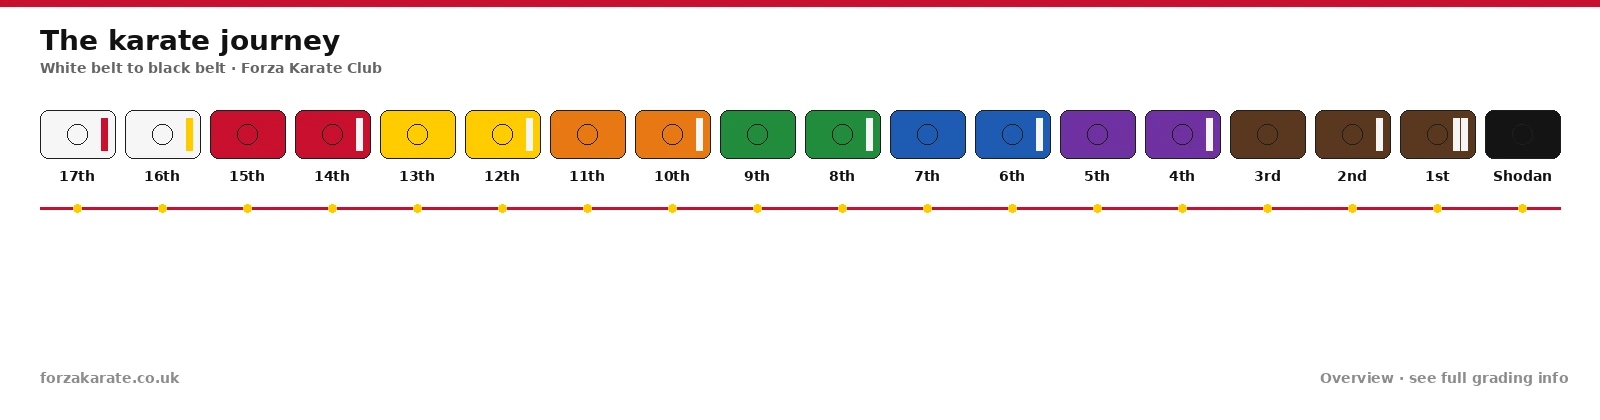
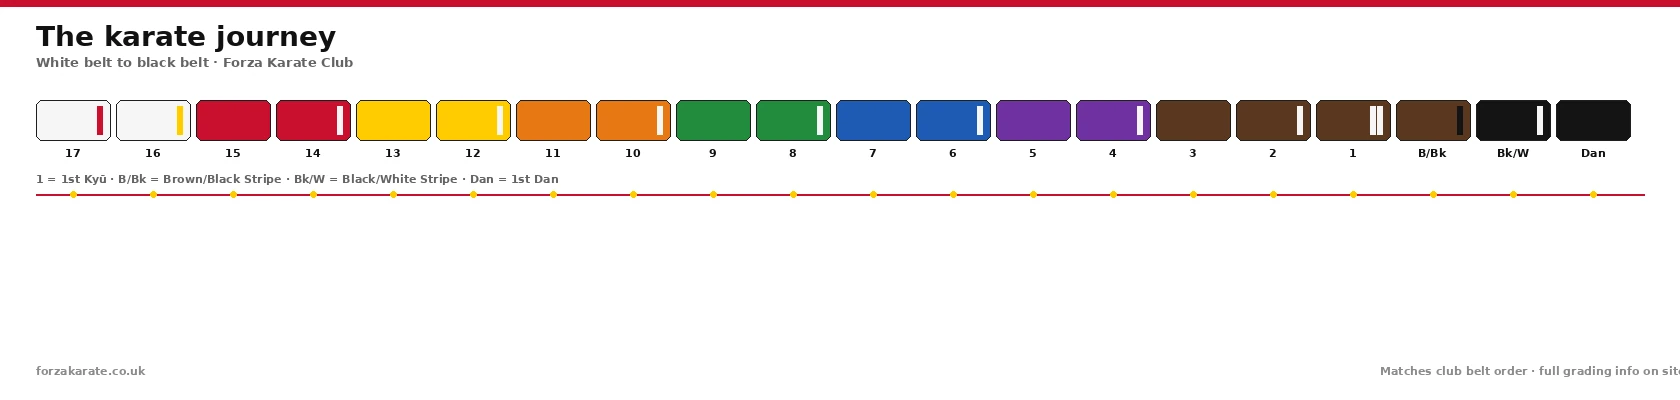
feat(home): revised belt journey graphic (20 grades) + legend

diff --git a/components/sections/BeltJourney.tsx b/components/sections/BeltJourney.tsx
@@ -52,14 +52,19 @@ export default function BeltJourney() {
           {/* eslint-disable-next-line @next/next/no-img-element */}
           <img
             src="/assets/home/belt-journey-1600.png"
-            alt="Overview of the Forza belt journey from white belt (17th Kyu) to black belt (Shodan)"
-            width={1600}
-            height={420}
+            alt="Overview of the Forza belt journey from white belt (17th Kyu) to black belt (Shodan), including Brown/Black Stripe and Black/White Stripe"
+            width={1680}
+            height={400}
             loading="lazy"
             decoding="async"
             className="w-full h-auto"
           />
         </picture>
+        <p className="-mt-8 mb-12 text-center text-xs text-gray-600">
+          <span className="font-semibold text-[#111111]">B/Bk</span> = Brown / Black Stripe ·{' '}
+          <span className="font-semibold text-[#111111]">Bk/W</span> = Black / White Stripe ·{' '}
+          <span className="font-semibold text-[#111111]">Dan</span> = 1st Dan (Shodan)
+        </p>
 
         {/* Belt grid */}
         <div className="grid grid-cols-3 sm:grid-cols-4 md:grid-cols-5 lg:grid-cols-7 gap-x-4 gap-y-6">
